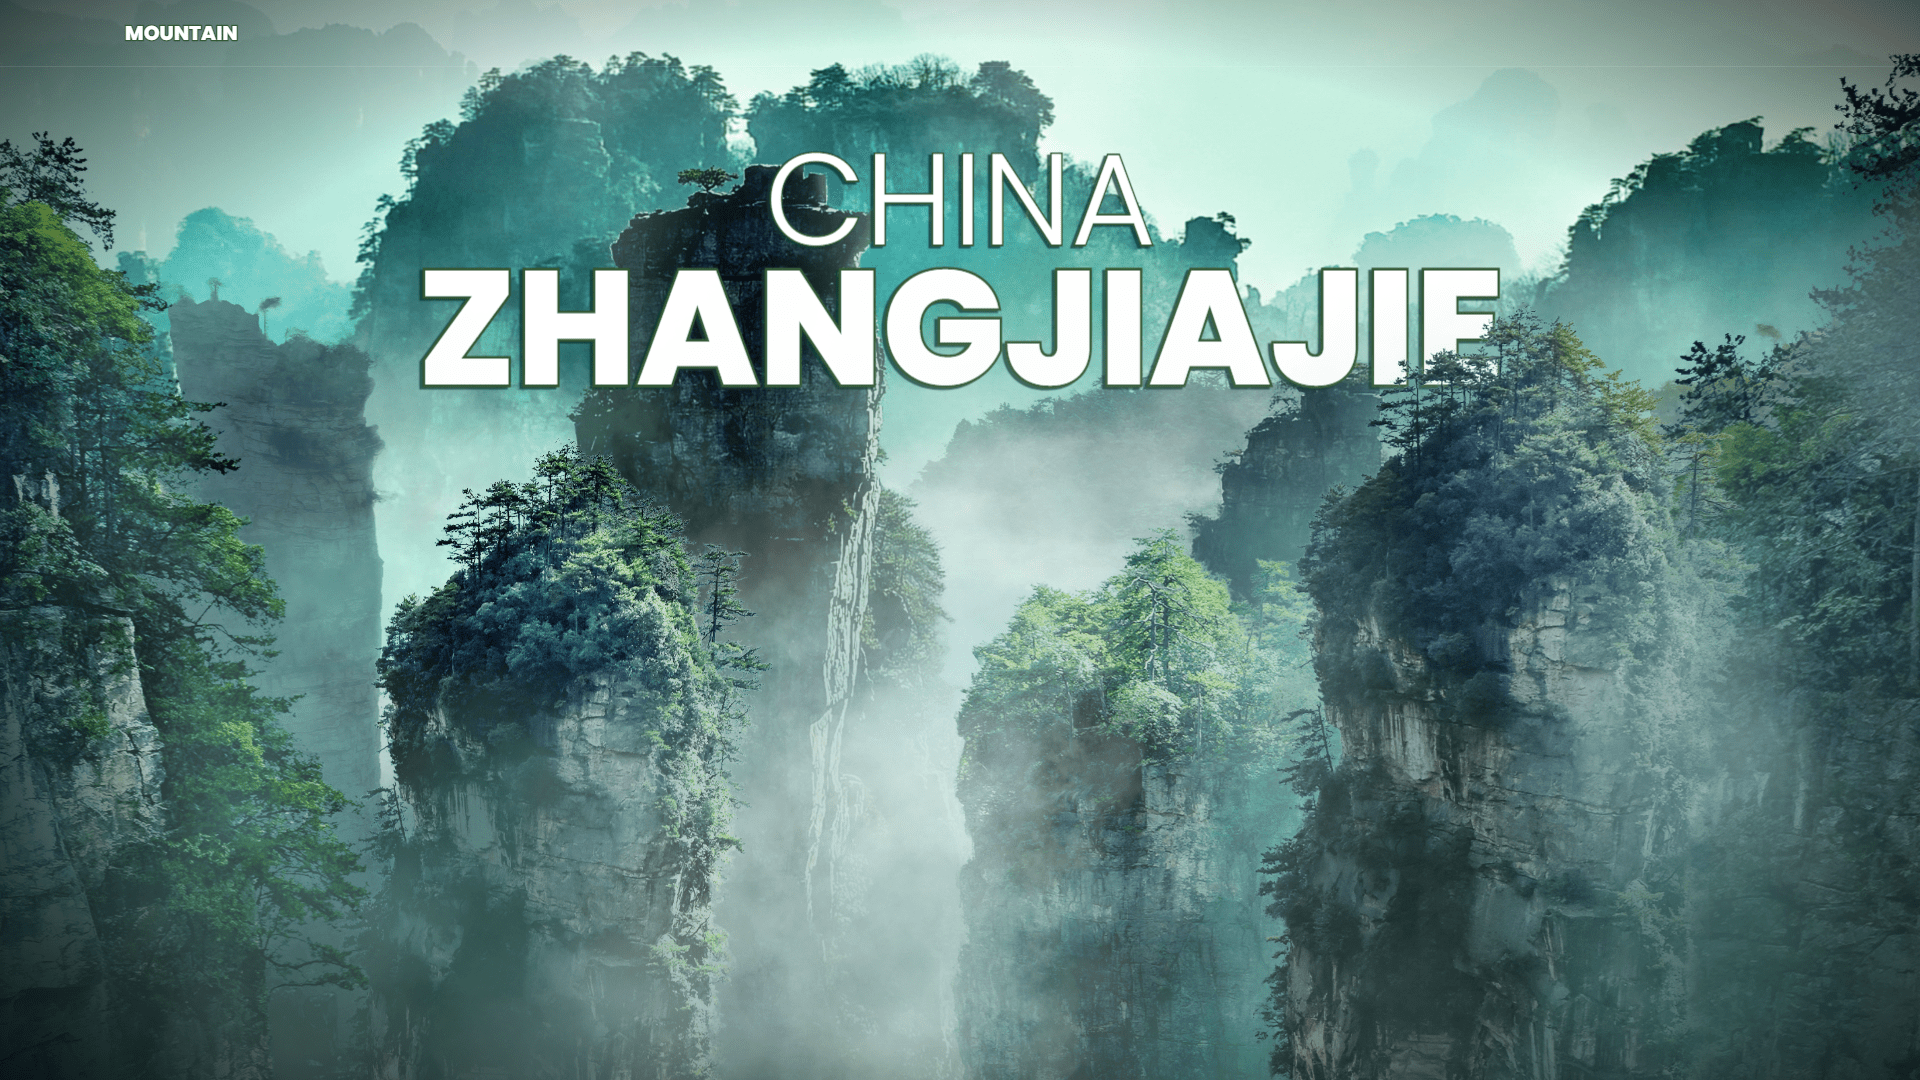
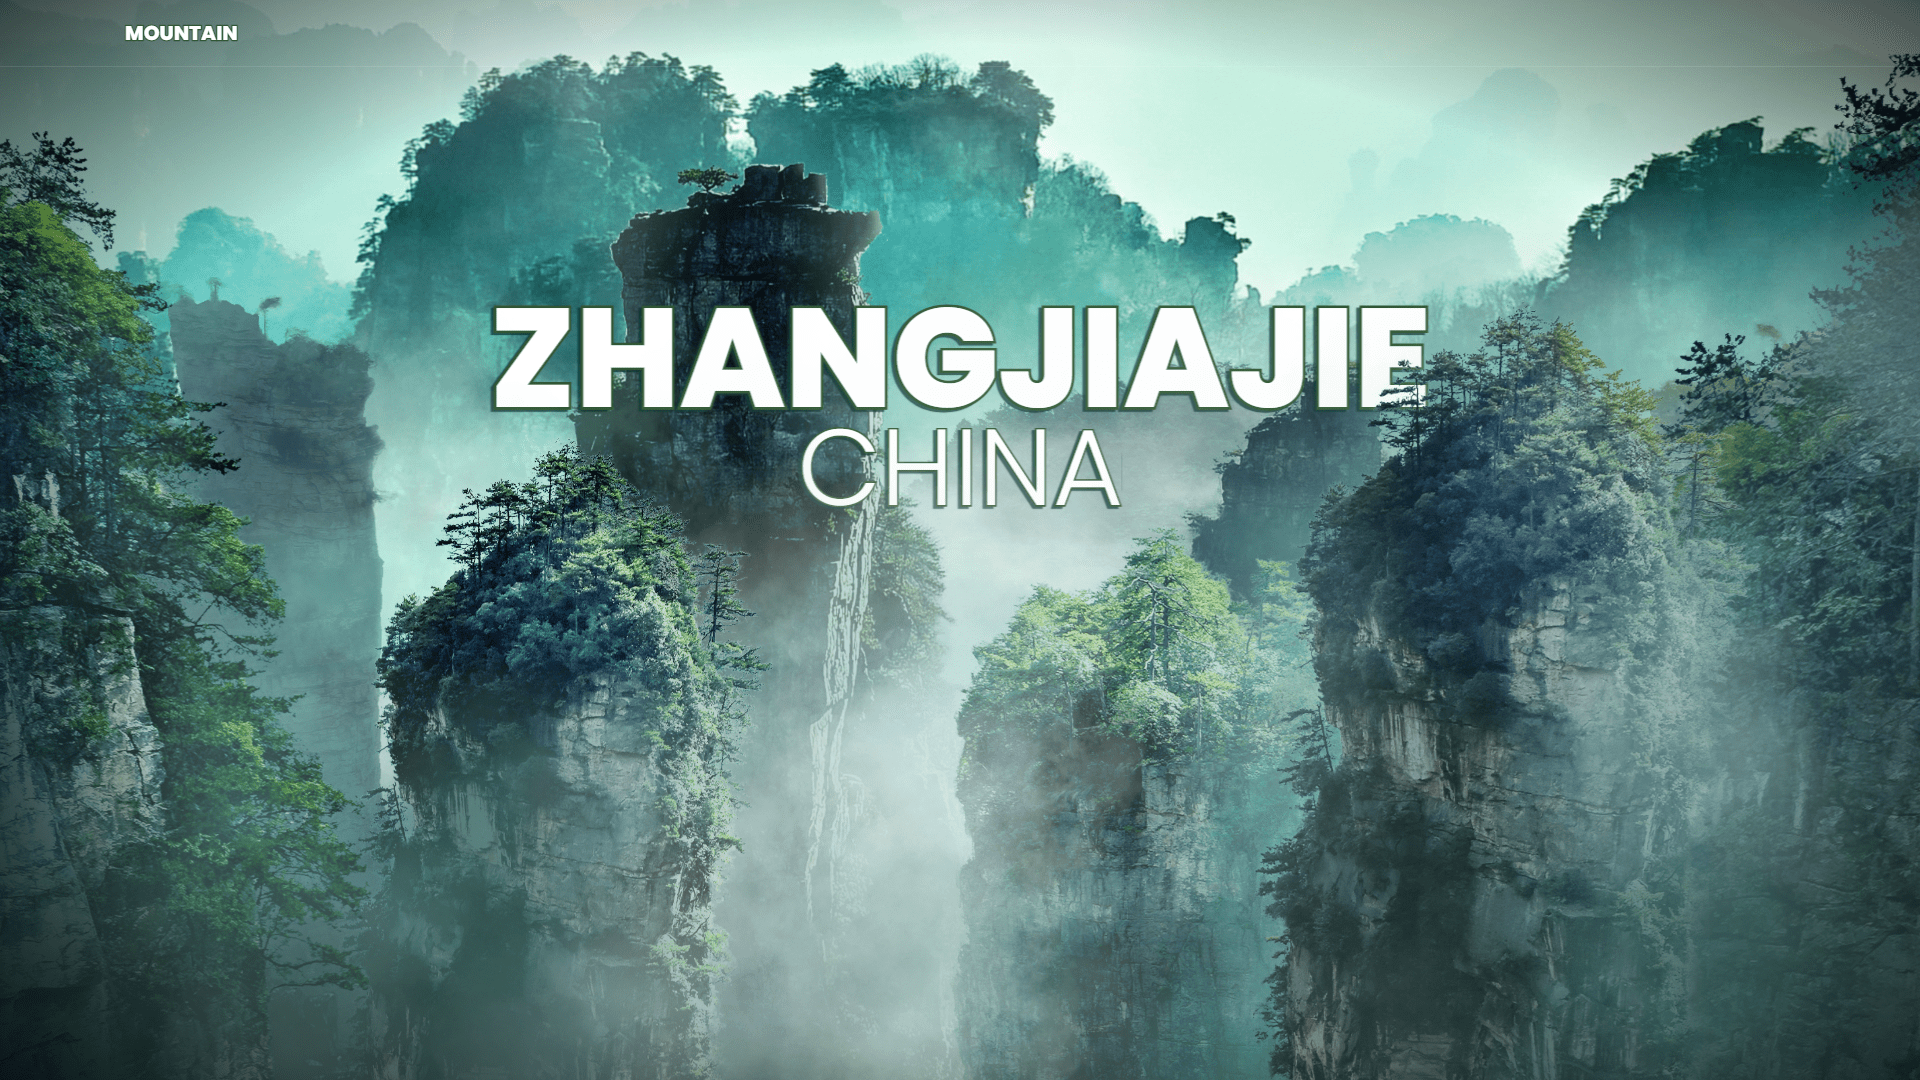
update

Changed region(s): [[0.2188, 0.1222, 0.7812, 0.4889]]

diff --git a/assets/css/style.css b/assets/css/style.css
@@ -11,7 +11,6 @@
 
 body {
   font-family: "Poppins", sans-serif;
-  /* background-color: #333; */
 }
 
 ::selection {
@@ -81,7 +80,6 @@ a {
 }
 
 .nav__logo {
-  /* width: 100px; */
   color: #fff;
   font-weight: bold;
   -webkit-text-stroke: 2px #353;
@@ -152,7 +150,6 @@ a {
 
 /*=============== HOME ===============*/
 .home__container {
-  /* background-color: #353; */
   position: relative;
   height: calc(100vh);
   width: 100vw;
@@ -217,7 +214,7 @@ a {
 
 .home__text {
   z-index: 9;
-  top: calc(50% - 200px);
+  top: calc(50% - 100px);
   left: 50%;
   text-align: center;
   text-transform: uppercase;
@@ -225,21 +222,21 @@ a {
   color: #fff;
 }
 
-.home__text h2 {
-  font-weight: 300;
-  font-size: 6rem;
-  line-height: 0.88;
-  filter: drop-shadow(-2px 2px 0 #0b372dbb);
-  -webkit-text-stroke: 2.5px #353;
-  paint-order: stroke;
-}
-
 .home__text h1 {
   font-weight: 800;
-  font-size: 7.5rem;
+  font-size: 6.5rem;
   line-height: 0.88;
   filter: drop-shadow(-2px 2px 0 #0b372dbb);
   -webkit-text-stroke: 4px #353;
+  paint-order: stroke;
+}
+
+.home__text h2 {
+  font-weight: 300;
+  font-size: 5rem;
+  line-height: 0.88;
+  filter: drop-shadow(-2px 2px 0 #0b372dbb);
+  -webkit-text-stroke: 2.5px #353;
   paint-order: stroke;
 }
 
@@ -330,47 +327,24 @@ a {
   left: 50%;
 }
 
-/* ------------  RESPONSIVE  ------------ */
-/* ✦ 0 – 767 px : mobile */
-@media (max-width: 767px) {
-  /* nav */
-  /* .nav__hamburger {
-    display: block;
-  }
-  .nav__links {
-    position: absolute;
-    inset: 100% 0 auto auto;
-    flex-direction: column;
-    gap: 1rem;
-    background: hsla(0 0% 0%/0.8);
-    backdrop-filter: blur(5px);
-    padding: 1rem 2rem;
-    border-radius: 0 0 0.5rem 0.5rem;
-    display: none;
-  }
-  .nav__links.active {
-    display: flex;
-  }
-  .nav__link {
-    padding: 0;
-  } */
-
-  /* titres plus petits */
-  .home__text h1 {
-    font-size: clamp(2.5rem, 10vw, 5rem);
-    line-height: initial;
-  }
-  .home__text h2 {
-    font-size: clamp(1.5rem, 7vw, 3.5rem);
-  }
-}
-
-/* ✦ 768 – 1199 px : tablette */
+/*=============== BREAKPOINTS ===============*/
+/* For Medium Devices */
 @media (min-width: 768px) and (max-width: 1199px) {
   .home__text h1 {
     font-size: clamp(3rem, 8vw, 6.5rem);
   }
   .home__text h2 {
     font-size: clamp(2rem, 6vw, 4.5rem);
+  }
+}
+
+/* For Small Devices */
+@media (max-width: 767px) {
+  .home__text h1 {
+    font-size: clamp(2.5rem, 10vw, 5rem);
+    line-height: initial;
+  }
+  .home__text h2 {
+    font-size: clamp(1.5rem, 7vw, 3.5rem);
   }
 }

diff --git a/index.html b/index.html
@@ -122,8 +122,8 @@
           data-speedy="0.07"
           data-speedz="0"
           data-rotation="0.11">
-          <h2>China</h2>
           <h1>Zhangjiajie</h1>
+          <h2>China</h2>
         </div>
         <img
           src="assets/img/mountain_6.png"
